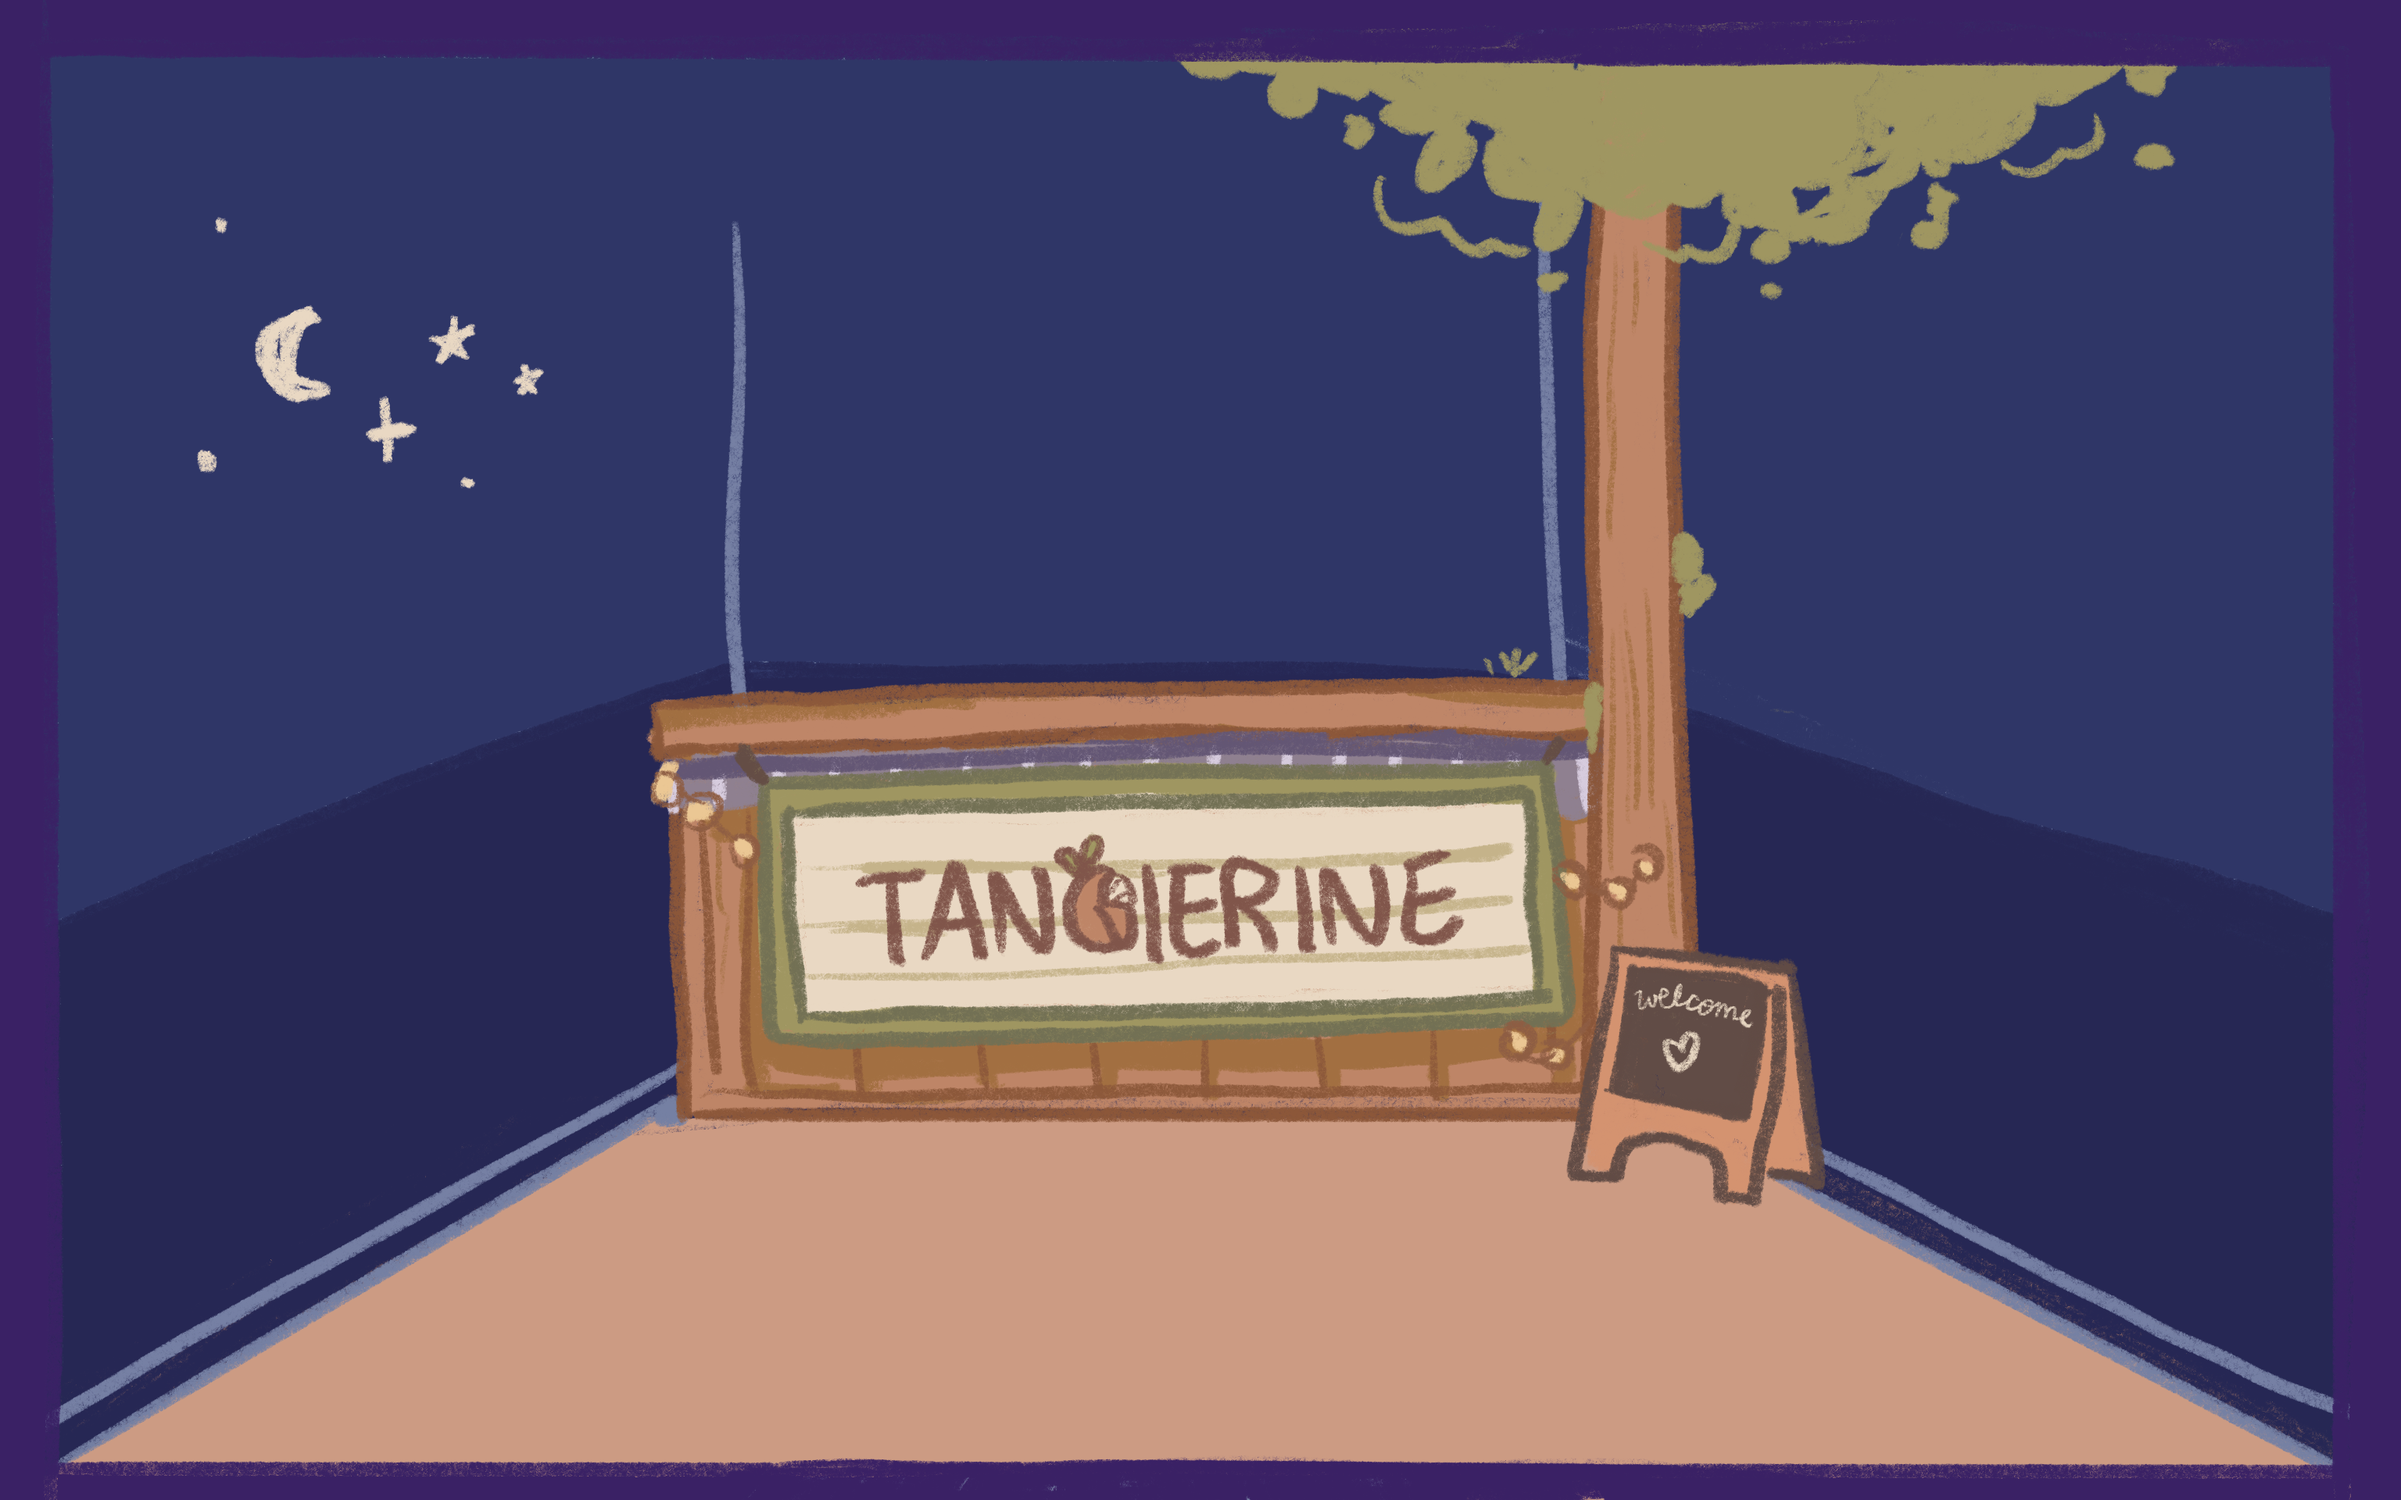
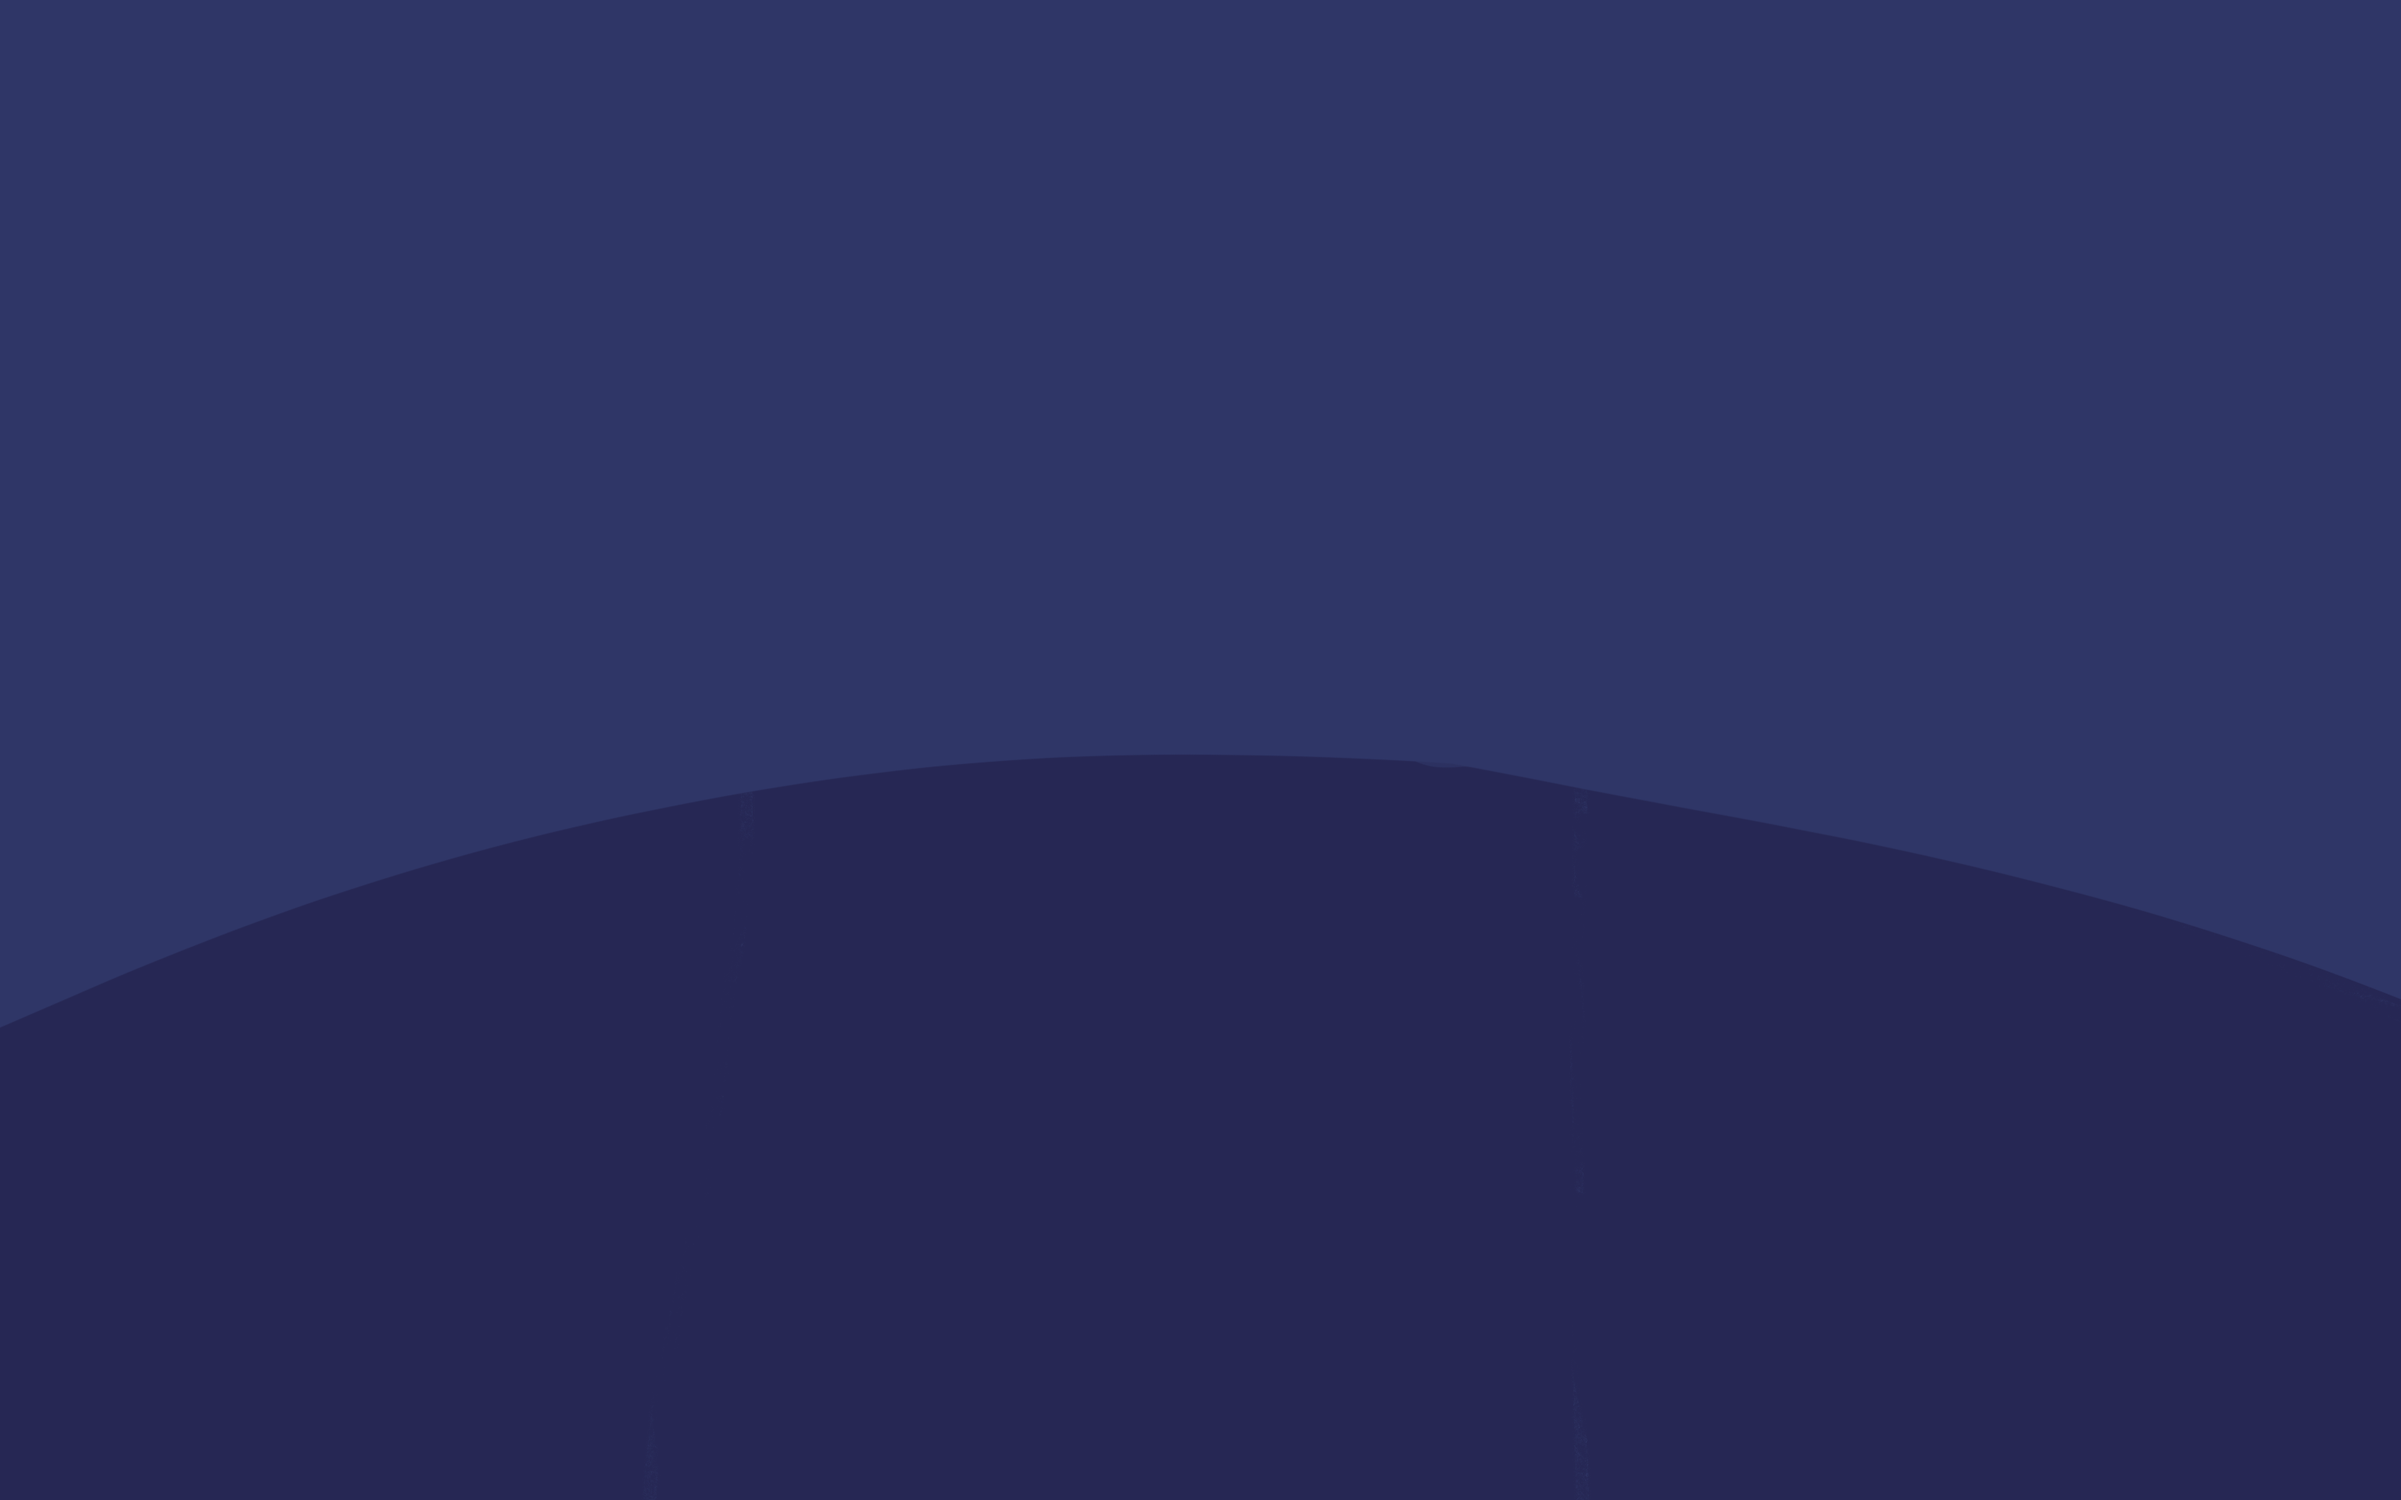
Improved parallax

diff --git a/src/components/ShopScene.tsx b/src/components/ShopScene.tsx
@@ -19,15 +19,28 @@ export default function ShopScene() {
     }, []);
 
     return (
-        <main className="relative w-full h-screen overflow-hidden">
+        <main className="relative w-full h-screen object-cover overflow-hidden">
         <div className="absolute w-full h-full">
+            <div
+                className={`absolute transition-transform  -translate-x-1/2 -translate-y-1/2`}
+                style={{
+                    left: `calc(${28}% + ${offset.x}px)`,
+                    top: `calc(${70}% + ${offset.y}px)`,
+                }}
+                ><img
+                    src={"/images/floor.png"}
+                    alt={"Floor"}
+                    className="object-contain"
+                    style={{ maxWidth: `155%` }}
+                />
+            </div>
             <Link href="/commission" className="group">
             <ShopItem
                 label="Frog"
                 imgSrc="/images/frog.png"
-                width={51}
-                positionX={56}
-                positionY={37}
+                width={45}
+                positionX={57}
+                positionY={45}
                 offsetX={offset.x}
                 offsetY={offset.y}
                 className="transition-opacity duration-300 group-hover:opacity-60"
@@ -39,6 +52,9 @@ export default function ShopScene() {
                 Place a <br /> Commission
             </span>
             </Link>
+
+            <ShopItem label="Counter" imgSrc="/images/counter.png" width={90} positionX={51} positionY={60} offsetX={offset.x} offsetY={offset.y}/>
+            <ShopItem label="Tree" imgSrc="/images/tree.png" width={135} positionX={62} positionY={42} offsetX={offset.x} offsetY={offset.y}/>
 
             <Link href="/shop" className="group">
             <ShopItem

diff --git a/src/components/ShopItem.tsx b/src/components/ShopItem.tsx
@@ -1,12 +1,12 @@
 type ShopItemProps = {
   label: string;
   imgSrc: string;
-  width: number; // stays % for responsiveness
+  width: number;
   positionX: number;
   positionY: number;
   className?: string;
-  offsetX?: number; // for parallax
-  offsetY?: number; // for parallax
+  offsetX?: number;
+  offsetY?: number;
 };
 
 export default function ShopItem({
